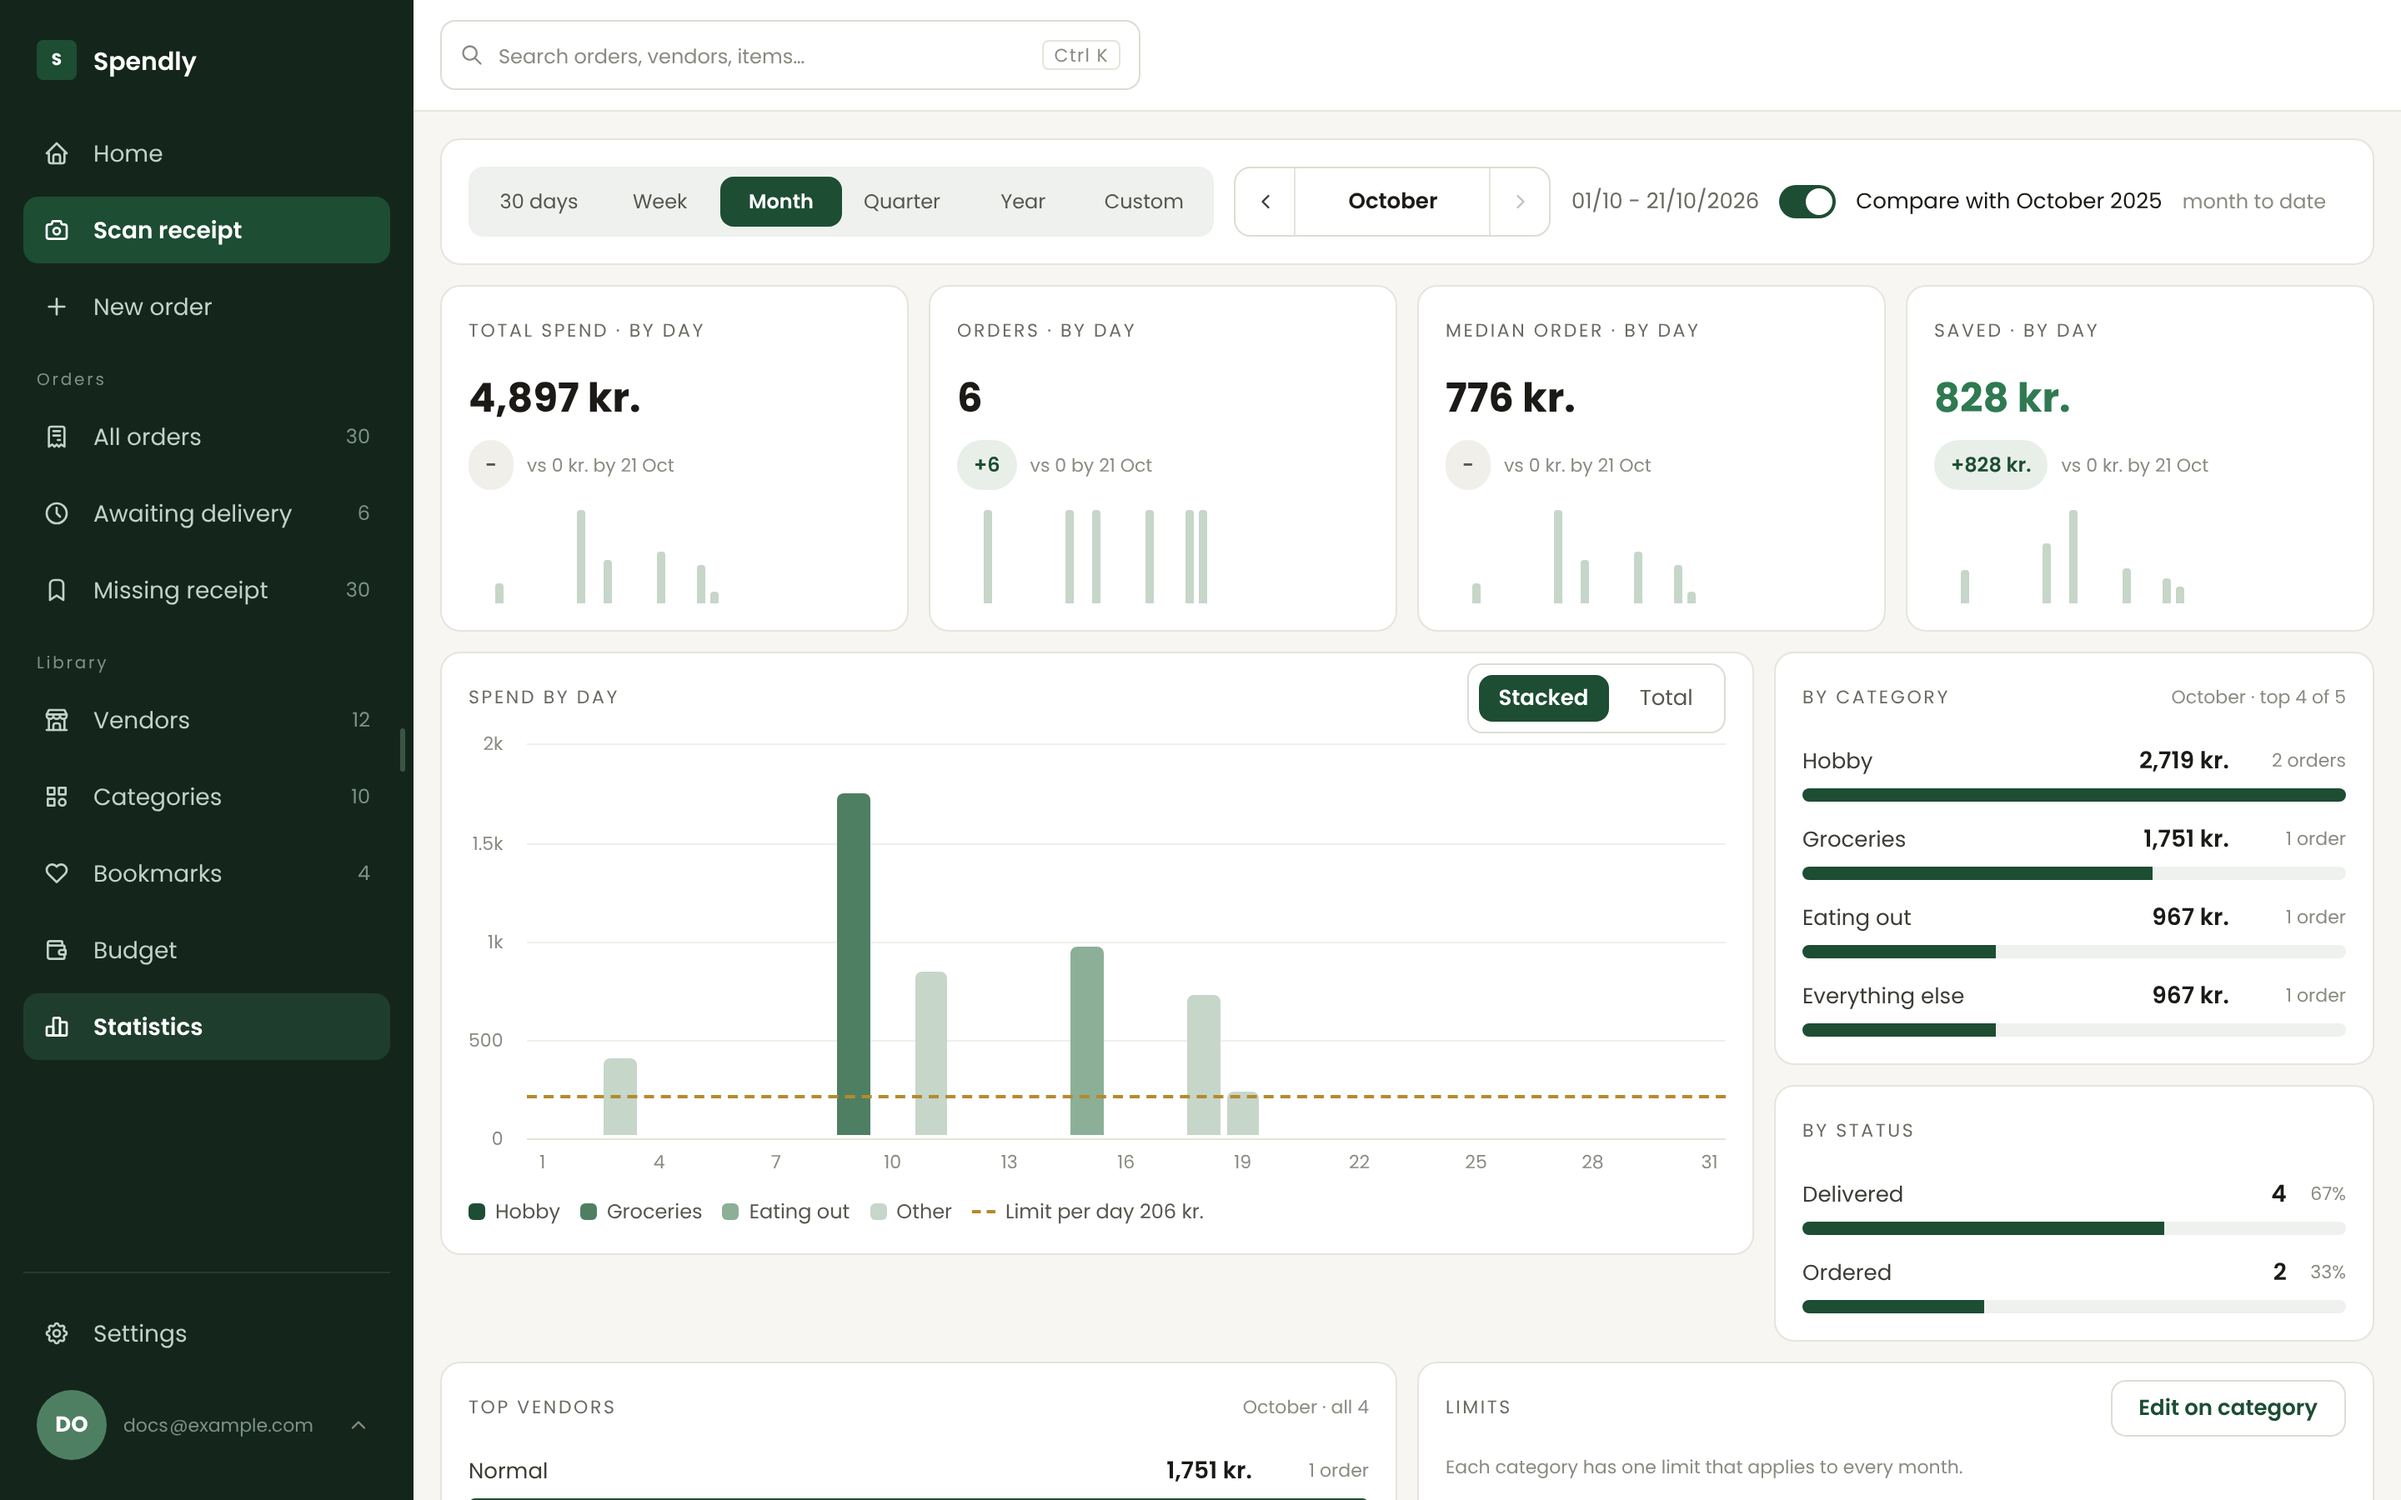
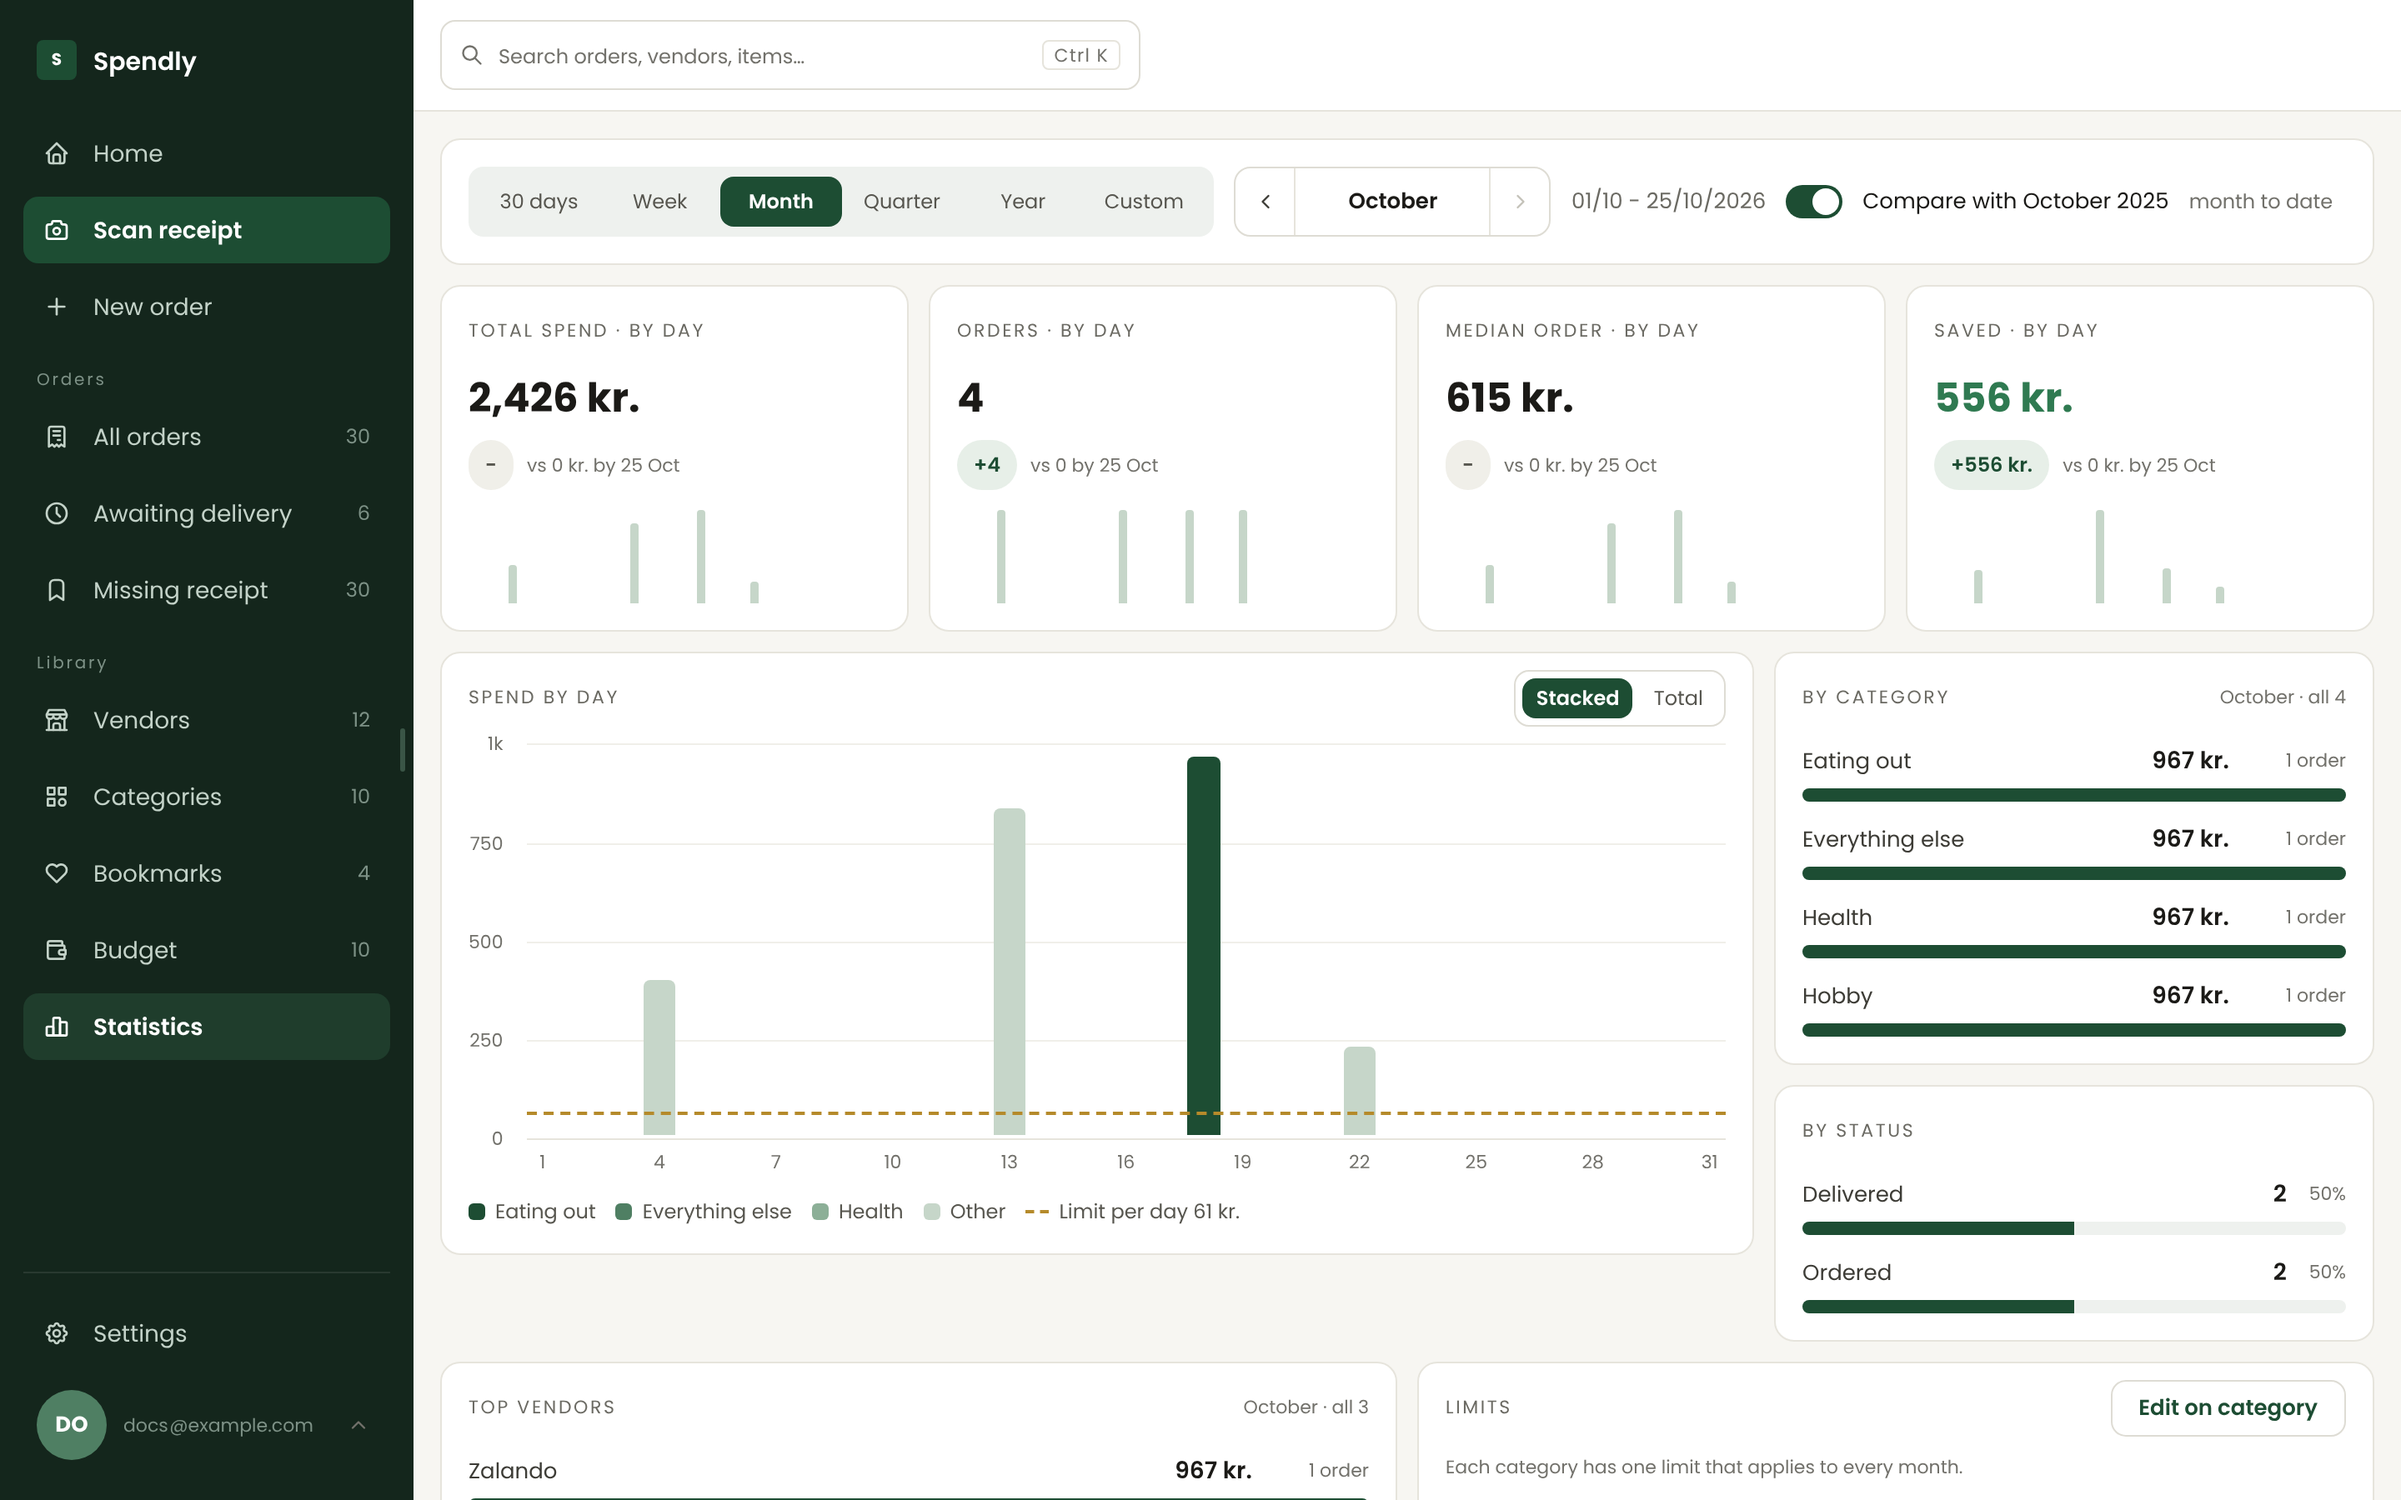
Apply the design update: small segmented control, its sliding marker, and an open list's first tap
Segmented takes size="small" and the Statistics bar shape switch in its card head uses it.
The option holding the marker no longer clips it, so the green slides. ComboboxSheet links
to its field after the commit, so the later.md entry for it is removed. Storybook gets a Small
story and the card head example is small. docs/statistics.png is rendered again.

diff --git a/react/src/styles/components.css b/react/src/styles/components.css
@@ -1756,6 +1756,9 @@ label.sp-option--swatch[data-chosen="true"]:has(:focus-visible) {
   place-items: center;
 }
 .sp-segmented__item:has(:focus-visible) { box-shadow: var(--ring); }
+/* small: the small button's height, for a card head or a toolbar of small buttons (c5) */
+.sp-segmented--small { height: var(--btn-h-small); padding: var(--sp-4); gap: var(--sp-4); }
+.sp-segmented--small > .sp-segmented__item { padding: 0 var(--sp-8); font-size: var(--t-12); }
 
 /* ---------- sort control and pager - LOCKED c8 ---------- */
 
@@ -5850,6 +5853,9 @@ a.sp-record__photos { color: inherit; text-decoration: none; }
 .sp-touch .sp-segmented__item { overflow: visible; }
 .sp-touch .sp-segmented__item::before { content: ""; position: absolute; inset: calc((var(--sp-6) + 1px) * -1) calc(var(--sp-6) / -2); }
 .sp-touch .sp-segmented__item > .sp-label { inset: 50% 0 auto; transform: translateY(-50%); display: block; overflow: hidden; text-overflow: ellipsis; white-space: nowrap; text-align: center; }
+/* small keeps its 34px on touch, as the small button does; its options reach the 48px press area (c5) */
+.sp-touch .sp-segmented--small { height: var(--btn-h-small); }
+.sp-touch .sp-segmented--small > .sp-segmented__item::before { inset: calc((var(--control-h-touch) - var(--btn-h-small)) / -2 - 1px - var(--sp-4)) calc(var(--sp-4) / -2); }
 /* a card's menu sits in a hit target of its own, larger than its glyph (c1) */
 .sp-record__menu > .sp-record__act::after { content: ""; position: absolute; inset: 0; }
 
@@ -6182,6 +6188,10 @@ a.sp-record__photos { color: inherit; text-decoration: none; }
 .sp-choice--row:has(> .sp-marker),
 .sp-nav-item:has(> .sp-marker) { position: relative; isolation: isolate; background: none; }
 .sp-choice--row > .sp-marker { background: var(--green-tint); }
+/* the option holding the marker lets it slide in from its neighbour; its label clips its own
+   text in place of the option, as on touch (c5) */
+.sp-segmented__item:has(> .sp-marker) { overflow: visible; }
+.sp-segmented__item:has(> .sp-marker) > .sp-label { inset: 50% 0 auto; transform: translateY(-50%); display: block; overflow: hidden; text-overflow: ellipsis; white-space: nowrap; text-align: center; }
 .sp-nav-item > .sp-marker { border-radius: var(--r-field); background: var(--shell-current); }
 .sp-nav-item--light > .sp-marker { background: var(--green-tint-2); }
 

diff --git a/react/src/components/Segmented.jsx b/react/src/components/Segmented.jsx
@@ -3,6 +3,7 @@ import { join, pick, reject } from './variants.js'
 import { glide, m } from './motion.js'
 
 const VARIANT = { default: null, facet: 'sp-segmented--facet', narrow: 'sp-segmented--narrow', fill: 'sp-segmented--fill' }
+const SIZE = { default: null, small: 'sp-segmented--small' }
 
 /** `fixed` is a set that is ordered and never grows, like the twelve months (Budget 21a): it
     stays segments past four, where any other set becomes a Combobox. The green is drawn once, on the
@@ -14,8 +15,9 @@ const VARIANT = { default: null, facet: 'sp-segmented--facet', narrow: 'sp-segme
     @param {string | number} [props.defaultValue] The value chosen at first, when the control keeps its own state.
     @param {(value: string | number) => void} [props.onChange]
     @param {keyof typeof VARIANT} [props.variant] `default`, `facet` for the switch at the head of a filter panel, `narrow` no wider than a field, `fill` spans its column with equal segments.
+    @param {keyof typeof SIZE} [props.size] `default` at the field height, `small` at the small button's, for a card head or beside small buttons.
     @param {boolean} [props.fixed] A set that is ordered and never grows, like the twelve months. It stays segments past four options. */
-export function Segmented({ name, options = [], value, defaultValue, onChange, variant = 'default', fixed = false, ...rest }) {
+export function Segmented({ name, options = [], value, defaultValue, onChange, variant = 'default', size = 'default', fixed = false, ...rest }) {
 	reject(rest, 'Segmented')
 	if (options.length > 4 && !fixed) console.error('<Segmented> more than four options is a Combobox')
 	const controlled = value !== undefined
@@ -24,7 +26,7 @@ export function Segmented({ name, options = [], value, defaultValue, onChange, v
 	const [own, setOwn] = useState(defaultValue)
 	const chosen = controlled ? value : own
 	return (
-		<div className={join('sp-segmented', pick(VARIANT, variant, 'variant', 'Segmented'))} {...rest}>
+		<div className={join('sp-segmented', pick(VARIANT, variant, 'variant', 'Segmented'), pick(SIZE, size, 'size', 'Segmented'))} {...rest}>
 			{options.map(option => (
 				<label className="sp-segmented__item" data-label={option.label} key={option.value}>
 					{chosen === option.value

diff --git a/storybook/stories/Card.stories.jsx b/storybook/stories/Card.stories.jsx
@@ -64,7 +64,7 @@ export const Heads = {
 			<Card><CardHeader name="Drafts" meta="newest 3" actions={[{ label: 'All 5', to: '/orders' }]} /><span className="sp-data">Indbo Møbler · 19/08</span></Card>
 			<Card><CardHeader name="Top vendors" aside="August · top 8 of 10" /><span className="sp-data">Indbo Møbler · 24.310 kr.</span></Card>
 			<Card><CardHeader name="Items · 2" aside="1 line needs attention" asideTone="danger" /><span className="sp-data">Lounge chair · 2 × 4.129,00</span></Card>
-			<Card><CardHeader name="Spend by month" control={<Segmented name="head" options={[{ value: 's', label: 'Stacked' }, { value: 't', label: 'Total' }]} defaultValue="s" />} /><span className="sp-data">Jan to Aug</span></Card>
+			<Card><CardHeader name="Spend by month" control={<Segmented name="head" size="small" options={[{ value: 's', label: 'Stacked' }, { value: 't', label: 'Total' }]} defaultValue="s" />} /><span className="sp-data">Jan to Aug</span></Card>
 			<Card><CardHeader name="Spend, August" status={<Pill color="danger">2.100 over</Pill>} /><span className="sp-stat__figure">24.100 kr.</span></Card>
 			<Card><CardHeader name="August 2026" onDismiss={() => {}} dismissLabel="Hide the August summary" /><span className="sp-data">61.480 kr. across 18 orders</span></Card>
 		</Cards>

diff --git a/storybook/stories/Segmented.stories.jsx b/storybook/stories/Segmented.stories.jsx
@@ -28,6 +28,15 @@ export const Three = {
 	args: { name: 'view', value: 'list', options: THREE },
 	argTypes: { value: { control: 'inline-radio', options: THREE.map(o => o.value) } }
 }
+export const Small = {
+	args: { ...TwoOptions.args, name: 'small', size: 'small' },
+	argTypes: TwoOptions.argTypes,
+	play: async ({ canvas }) => {
+		const group = canvas.getByRole('radio', { name: 'Total' }).closest('.sp-segmented')
+		const small = getComputedStyle(document.documentElement).getPropertyValue('--btn-h-small').trim()
+		await expect(`${group.getBoundingClientRect().height}px`).toBe(small)
+	}
+}
 export const Fill = { ...Three, args: { ...Three.args, name: 'fill', variant: 'fill' } }
 export const Months = {
 	args: { name: 'month', value: 'Aug', fixed: true, options: MONTHS.map(m => ({ value: m, label: m })) },

diff --git a/react/src/pages/Statistics.jsx b/react/src/pages/Statistics.jsx
@@ -854,7 +854,7 @@ function SpendChart({ chart, unit: soonUnit, running: soon, touch, selected, nar
 	return (
 		<Card aria-busy={chart ? undefined : 'true'}>
 			<CardHeader name={`Spend by ${unit}`} aside={narrowed || undefined}
-				control={splits && !touch ? <Segmented name="statistics-bar-shape" options={SHAPES} value={shapeOf} onChange={setShape} aria-label="Bar shape" /> : undefined} />
+				control={splits && !touch ? <Segmented name="statistics-bar-shape" size="small" options={SHAPES} value={shapeOf} onChange={setShape} aria-label="Bar shape" /> : undefined} />
 			{touch
 				? <Bars ref={bars} days={unit === 'day'} columns={drawn} selected={select ? selected : undefined} onSelect={select} loading={!chart} />
 				: (

diff --git a/react/src/components/Combobox.jsx b/react/src/components/Combobox.jsx
@@ -190,7 +190,9 @@ const SHEET_LIST = { flex: '1 1 100vh', minHeight: 0, overflowY: 'auto' }
     under it. A press on the backdrop closes it and lands on nothing under it. */
 function ComboboxSheet({ owner, name, search, onClose, children }) {
 	const sheet = useRef(null)
-	useLayoutEffect(() => ownedBy(sheet.current, owner.current), [owner])
+	// after the commit, not in it: a list drawn open on its first draw has no field element yet in a
+	// layout effect, which runs before the field's own ref is set
+	useEffect(() => ownedBy(sheet.current, owner.current), [owner])
 	useFocusTrap(sheet, true, search ? 'input' : '[role="listbox"]')
 	const bare = ev => ev.target === ev.currentTarget
 	return createPortal(

diff --git a/react/src/pages/BudgetCheck.jsx b/react/src/pages/BudgetCheck.jsx
@@ -319,7 +319,7 @@ function PickOnly({ value, options, onPick, ...rest }) {
 /** A budget row picked by typing or from the list of one side of the payment's year, with what each
     holds that month. It takes focus as it opens; Escape on its closed list puts it away. */
 function RowPicker({ id, label, kind, sheet, month, onPick, onClose, disabled }) {
-	// opened after it is drawn: on touch, a list open from the first draw does not yet know its field, and its first tap closes it
+	// opened after the field takes focus, so the open list moves focus last
 	const [open, setOpen] = useState(false)
 	const [query, setQuery] = useState('')
 	useEffect(() => {

diff --git a/later.md b/later.md
@@ -91,16 +91,3 @@ is removed in the change that settles it.
     control.
   - The grey text in a bookmark's empty photo box and its address line is under 4.5:1.
 - **Found:** 2026-10-24.
-
-## On touch, a combobox drawn already open closes on its first tap
-
-- **Where:** `ComboboxSheet` in `react/src/components/Combobox.jsx`, which marks the sheet as its
-  field's in a layout effect that runs before the field's own element is set.
-- **What the reader sees:** nothing today. The bank check's row list met it: a tap on a row closed
-  the sheet and opened the page under the finger in the bottom bar. The page now draws its list
-  closed and opens it right after, which is the case the component handles.
-- **What was found:** the sheet's link to its field is set only once, on the first draw; when the
-  list is open in that first draw, the field is not there yet and the link is never made, so every
-  press in the sheet counts as a press outside it. A change for Claude Design, if a page should be
-  able to draw a list already open.
-- **Found:** 2026-10-25.
